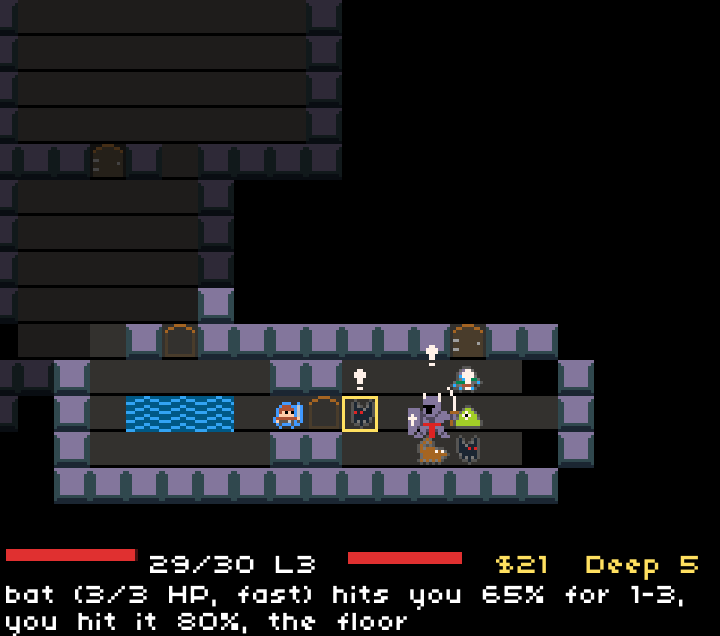
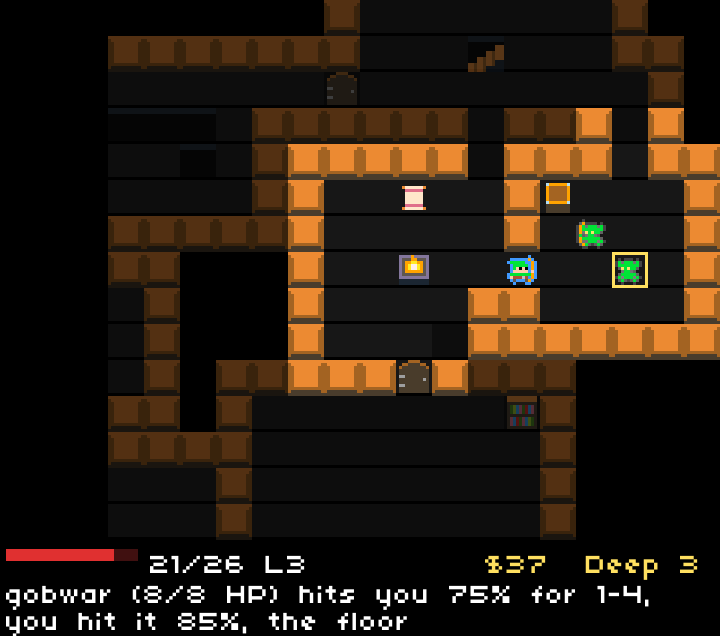
Retake the README's first screenshot with a shrine and a crate
The old one showed the first boss with its pack, which it no longer has.

diff --git a/README.md b/README.md
@@ -9,7 +9,7 @@ dungeon below Underwick as far as you can. Death is permanent, and the dungeon h
 desktop as below.
 
 <table><tr>
-<td><img src="docs/screenshots/fight.png" alt="A boss and its pack, with the odds of fighting a bat"></td>
+<td><img src="docs/screenshots/fight.png" alt="A shrine and a crate, with the odds of fighting a goblin"></td>
 <td><img src="docs/screenshots/shop.png" alt="The merchant's wares"></td>
 <td><img src="docs/screenshots/recap.png" alt="The recap of a dead mage's run"></td>
 </tr></table>
